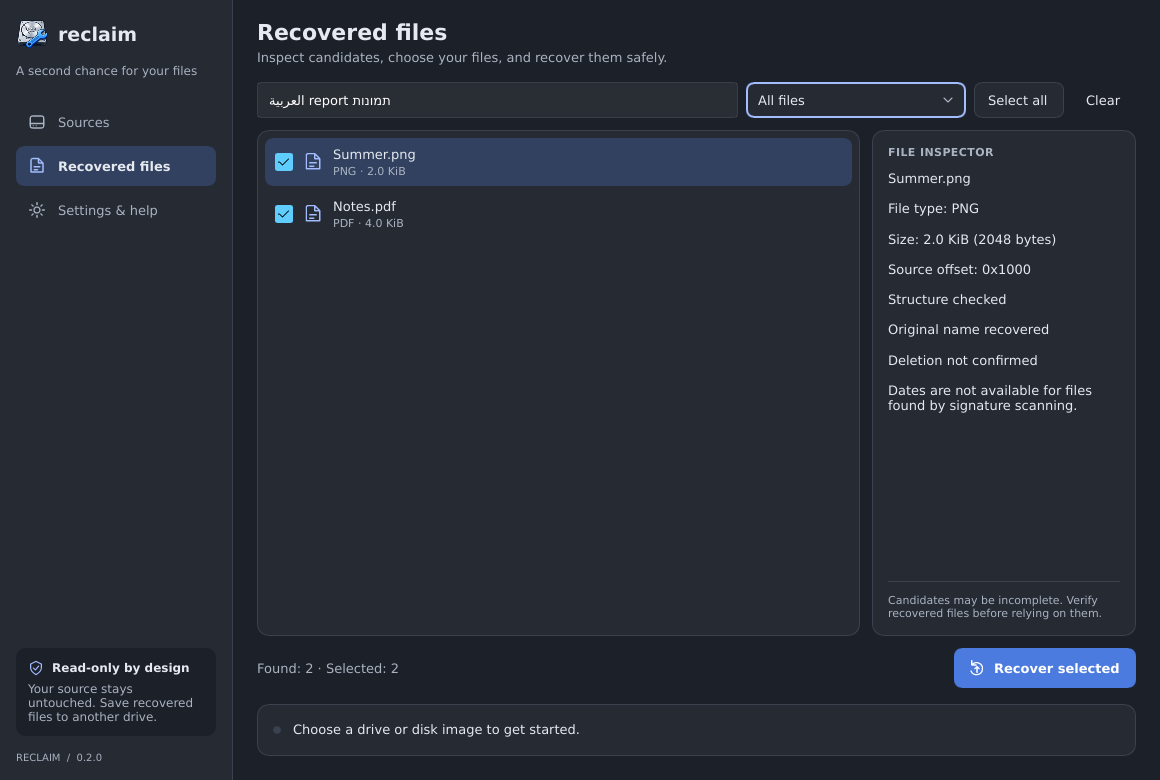
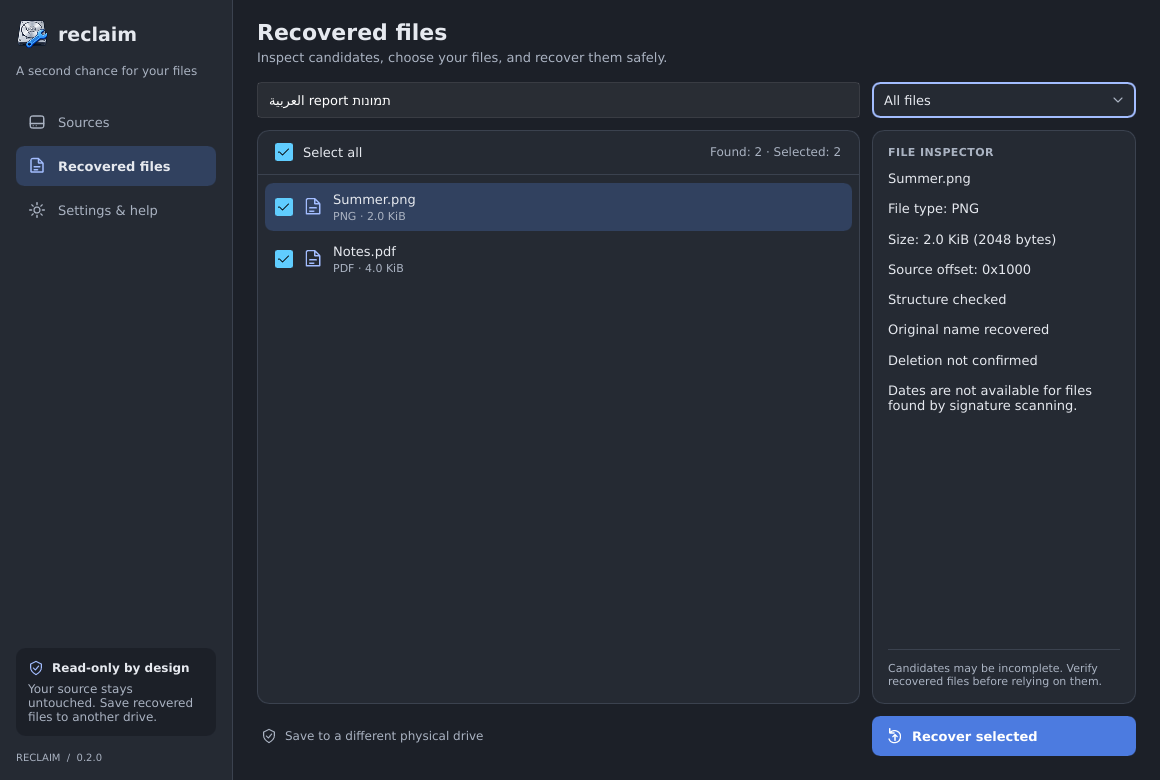
Align the Recovered files screen into two clean columns
The toolbar, cards and action row now share the same two columns:
search, list and a "save to another drive" hint on one side; category,
file inspector and Recover selected (same width) on the other.

- Replace the mismatched Select all / Clear buttons with a "Select all"
  box in a list header, aligned with the row checkboxes, next to the
  found/selected counts.
- The empty list offers "Choose a drive" to go to Sources, and the empty
  inspector uses the shared empty state.
- Hide the first-run status strip on this page; it repeated the empty
  state. Scan progress, results and errors still show.
- Drop letter spacing from section labels in Hebrew and Arabic.

Refresh the docs and website screenshots and move the website tour's
highlights to the new positions.

diff --git a/src/main.rs b/src/main.rs
@@ -91,7 +91,7 @@ impl Default for Reclaim {
             scan_stopped: false,
             scan_error: None,
             unreadable: Vec::new(),
-            status: "Choose a drive or disk image to get started.".into(),
+            status: FIRST_RUN_STATUS.into(),
             filter: String::new(),
             category: 0,
             exporting: false,
@@ -101,6 +101,8 @@ impl Default for Reclaim {
         }
     }
 }
+/// Shown until the user picks a source; the results page hides it as noise.
+const FIRST_RUN_STATUS: &str = "Choose a drive or disk image to get started.";
 impl Reclaim {
     fn stop_operation(&mut self) {
         self.cancel.store(true, Ordering::Relaxed);
@@ -493,7 +495,16 @@ impl Reclaim {
         ui.set_busy(self.busy);
         ui.set_can_scan(!self.busy && self.source.is_some());
         let selected = self.selected_indices().len();
+        let visible = self.visible_result_indices().len();
         ui.set_can_recover(!self.busy && selected > 0);
+        ui.set_all_selected(visible > 0 && selected == visible);
+        ui.set_has_results(!self.results.is_empty());
+        ui.set_show_status(
+            self.busy
+                || self.scan_error.is_some()
+                || self.drives_error.is_some()
+                || self.status != FIRST_RUN_STATUS,
+        );
         let status = if let Some((offset, kind, size, _)) = self.scan_activity
             && self.busy
             && !self.cancel.load(Ordering::Relaxed)

diff --git a/src/ui_text.rs b/src/ui_text.rs
@@ -47,7 +47,8 @@ ui_strings! {
     set_applications => "Applications",
     set_icons => "Icons",
     set_select_all => "Select all",
-    set_clear => "Clear",
+    set_choose_a_drive => "Choose a drive",
+    set_save_to_a_different_physical_drive => "Save to a different physical drive",
     set_separator => " · ",
     set_searching_candidates_will_appear_here => "Searching… candidates will appear here.",
     set_no_matching_files_yet_start => "No matching files yet. Start a scan from Sources.",
